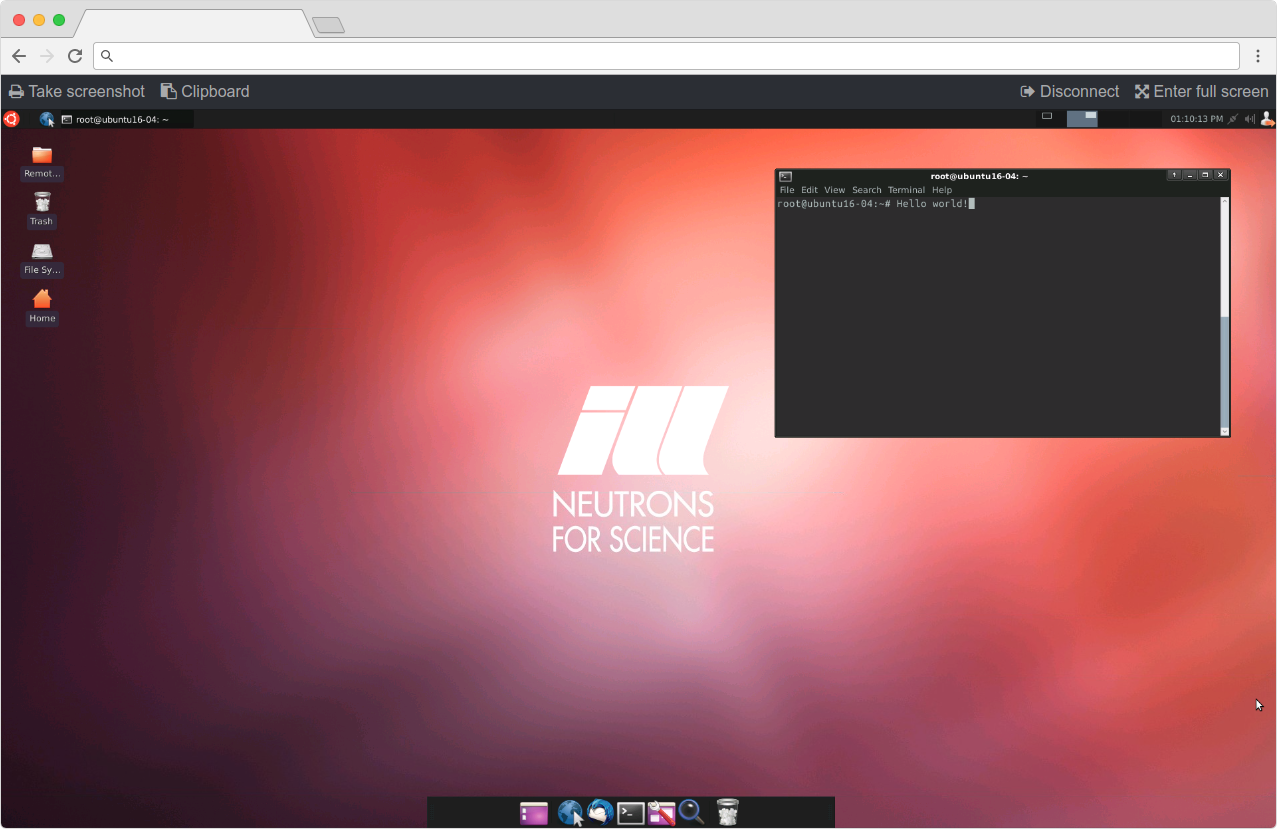
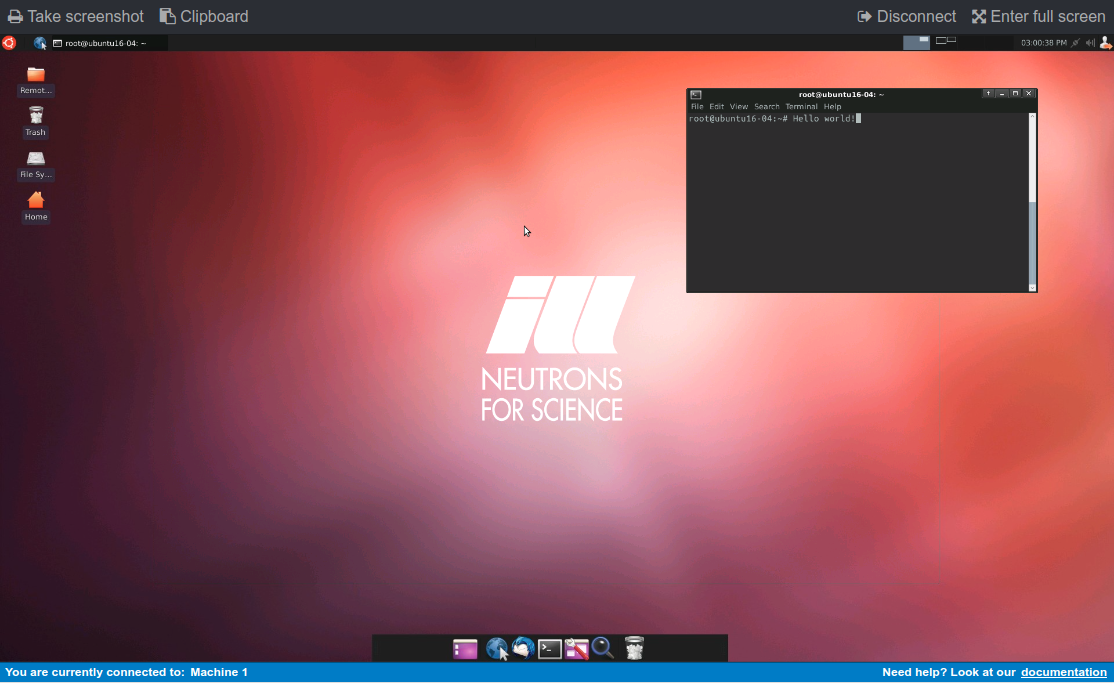
Added status bar component and update documentation

diff --git a/src/themes/default.scss b/src/themes/default.scss
@@ -6,6 +6,9 @@ $ngx-remote-desktop-toolbar-width: 170px;
 $ngx-remote-desktop-viewport-background-color: #2f323a;
 $ngx-remote-desktop-font-family: inherit;
 $ngx-remote-desktop-background-color: #ffffff;
+$ngx-remote-desktop-status-bar-background-color: #007acc;
+$ngx-remote-desktop-status-bar-border-color: #005188;
+
 .ngx-remote-desktop {
     font-family: $ngx-remote-desktop-font-family;
     background: $ngx-remote-desktop-background-color;
@@ -15,6 +18,33 @@ $ngx-remote-desktop-background-color: #ffffff;
     flex-direction: column;
     display: flex;
     overflow: hidden;
+    .ngx-remote-desktop-status-bar-hidden {
+        display: none;
+    }
+    .ngx-remote-desktop-status-bar {
+        flex: 0 0 20px;
+        height: 20px;
+        width: 100%;
+        display: flex;
+        background: $ngx-remote-desktop-status-bar-background-color;
+        font-weight: 700;
+        font-size: 12px;
+        color: #fff;
+        padding: 0px 5px 0px 5px;
+        border-top: 1px solid $ngx-remote-desktop-status-bar-border-color;
+        justify-content: space-between;
+        a,
+        strong {
+            padding-right: 2px;
+            padding-left: 2px;
+            color: white;
+            font-weight: bold;
+            text-decoration: underline;
+        }
+        strong {
+            text-decoration: none;
+        }
+    }
     .ngx-remote-desktop-toolbar {
         flex: 0 0 35px;
         height: 35px;

diff --git a/demo/app/app.component.html b/demo/app/app.component.html
@@ -1,5 +1,6 @@
 <div class="vdi-container">
   <ngx-remote-desktop [manager]="manager">
+    <!-- Toolbar items -->
     <ngx-remote-desktop-toolbar-item align="left" *ngIf="manager.isConnected()" (click)="handleScreenshot()">
         <i class="fa fa-print"></i> Take screenshot
     </ngx-remote-desktop-toolbar-item>
@@ -15,6 +16,7 @@
     <ngx-remote-desktop-toolbar-item (click)="handleExitFullScreen()" *ngIf="manager.isFullScreen() && manager.isConnected()" align="right">
         Exit full screen
     </ngx-remote-desktop-toolbar-item>
+
     <!-- Override connection state messages -->
     <ngx-remote-desktop-connecting-message>
       <div class="ngx-remote-desktop-message-title ngx-remote-desktop-message-title-success">
@@ -25,5 +27,12 @@
       </div>
     </ngx-remote-desktop-connecting-message>
 
+    <!-- Status bar -->
+    <ngx-remote-desktop-status-bar *ngIf="manager.isConnected()">
+      <span>
+        You are currently connected to: <strong>Machine 1</strong>
+      </span>
+      <span>Need help? Look at our <a href="#">documentation</a></span>
+    </ngx-remote-desktop-status-bar>
   </ngx-remote-desktop>
 </div>

diff --git a/src/remote-desktop.module.ts b/src/remote-desktop.module.ts
@@ -7,7 +7,8 @@ import {
     DisplayComponent,
     ErrorMessageComponent,
     DisconnectedMessageComponent,
-    ConnectingMessageComponent
+    ConnectingMessageComponent,
+    StatusBarComponent
 } from './components';
 import { BrowserAnimationsModule } from '@angular/platform-browser/animations';
 
@@ -23,14 +24,16 @@ import { BrowserAnimationsModule } from '@angular/platform-browser/animations';
         DisplayComponent,
         ErrorMessageComponent,
         DisconnectedMessageComponent,
-        ConnectingMessageComponent
+        ConnectingMessageComponent,
+        StatusBarComponent
     ],
     exports: [
         RemoteDesktopComponent,
         ToolbarItemComponent,
         ErrorMessageComponent,
         DisconnectedMessageComponent,
-        ConnectingMessageComponent
+        ConnectingMessageComponent,
+        StatusBarComponent
     ],
     entryComponents: [
 

diff --git a/demo/app/app.component.ts b/demo/app/app.component.ts
@@ -63,7 +63,7 @@ export class AppComponent implements OnInit {
 
     ngOnInit() {
         // Setup tunnel. The tunnel can be either: WebsocketTunnel, HTTPTunnel or ChainedTunnel
-        const tunnel = new WebSocketTunnel('ws://localhost:8080');
+        const tunnel = new WebSocketTunnel('ws://hallpclnx.ill.fr:8080');
         // URL parameters (image, audio and other query parameters you want to send to the tunnel.)
         const parameters = {
             ip: '192.168.13.232',

diff --git a/src/components/remote-desktop.component.ts b/src/components/remote-desktop.component.ts
@@ -93,6 +93,9 @@ import { ErrorMessageComponent } from './messages/error-message.component';
                 </ngx-remote-desktop-display>                
                 <!-- End display -->
             </section>
+            <section [class.ngx-remote-desktop-status-bar-hidden]="manager.isFullScreen()">
+                <ng-content select="ngx-remote-desktop-status-bar"></ng-content>
+            </section>
         </main>
     `,
     encapsulation: ViewEncapsulation.None,

diff --git a/src/components/status-bar.component.ts b/src/components/status-bar.component.ts
@@ -1,0 +1,17 @@
+import {
+    Component
+} from '@angular/core';
+
+/**
+ * Status bar component
+ */
+@Component({
+    selector: 'ngx-remote-desktop-status-bar',
+    template: `<ng-content></ng-content>`,
+    host: {
+        class: 'ngx-remote-desktop-status-bar'
+    }
+})
+export class StatusBarComponent {
+
+}

diff --git a/src/components/index.ts b/src/components/index.ts
@@ -5,3 +5,4 @@ export * from './display.component';
 export * from './messages/connecting-message.component';
 export * from './messages/error-message.component';
 export * from './messages/disconnected-message.component';
+export * from './status-bar.component';

diff --git a/additional-doc/usage.md b/additional-doc/usage.md
@@ -38,6 +38,11 @@ import { WebSocketTunnel } from '@illgrenoble/guacamole-common-js';
                     Attempting to connect to the remote desktop. Waiting for response...
                 </div>
             </ngx-remote-desktop-connecting-message>
+
+            <!-- Status bar -->
+            <ngx-remote-desktop-status-bar *ngIf="manager.isConnected()">
+                Hello world!
+            </ngx-remote-desktop-status-bar>
         </ngx-remote-desktop>
     `
 })

diff --git a/README.md b/README.md
@@ -21,6 +21,7 @@ By default, there are no toolbar items, however, you can add as many toolbar ite
   - Get a thumbnail
   - Subscribe to the remote clipboard observable and receive remote clipboard data
   - Send data to the remote clipboard
+  - Status bar (optional) to provide contextual information
 
 For a full implementation example, see the [demo source code](https://github.com/ILLGrenoble/ngx-remote-desktop/tree/master/demo).
 
